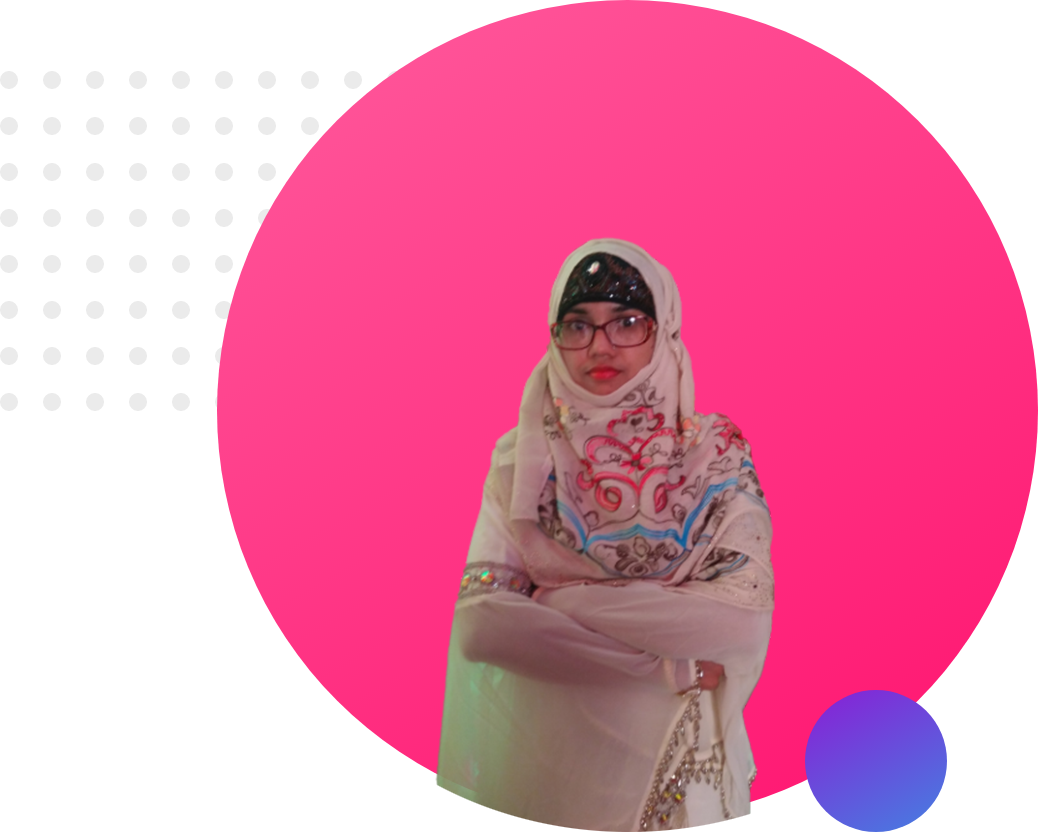
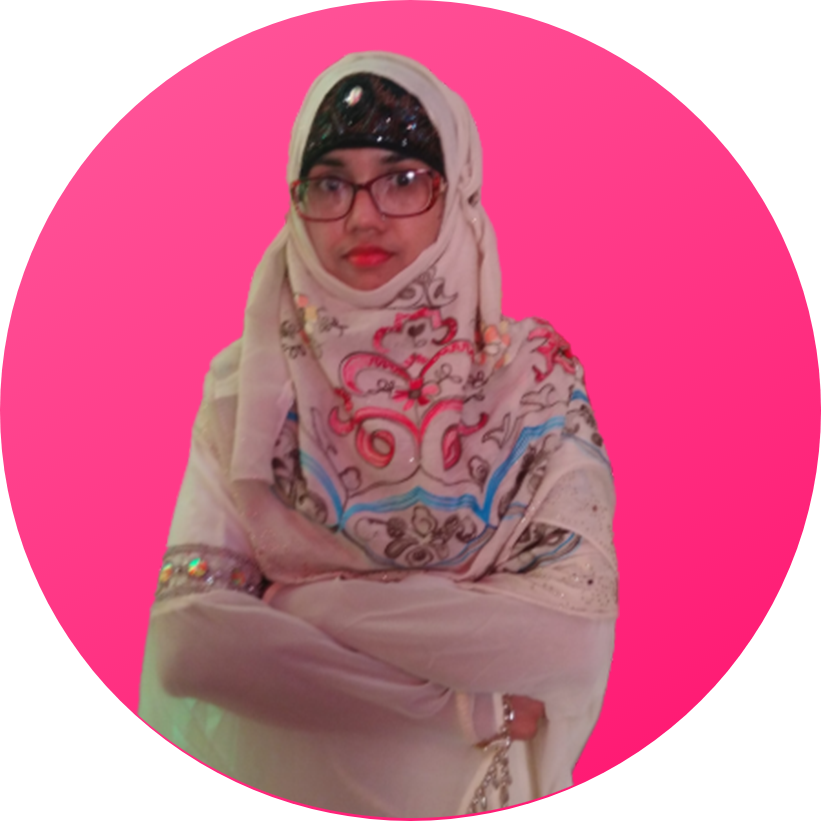
new correction

diff --git a/style.css b/style.css
@@ -33,6 +33,7 @@ section::after{
     font-size: 45px;
     color:#EC4C7A;
 }
+
 .half-width img{
     width:100%;
     height: auto;
@@ -52,15 +53,14 @@ section::after{
     background-image: linear-gradient(#EC4F90, #ED4B72);
     border-radius: 5px;
 }
-.half-width h3, .latest-work h3, h3{
+.half-width h3, .latest-work h3, h3 {
     font-size: 35px;
     text-transform: capitalize;
     font-weight: 400;
-}
-.latest-work h3{
     margin: 50px auto;
     text-align: center;
 }
+
 .half-width a.cv{
     text-transform: capitalize;
 }
@@ -70,7 +70,7 @@ section::after{
     padding:100px 0;
 }
 .biography{
-    margin-top: 100px;
+    margin-top: 0;
    
 }
 .single-work {
@@ -94,7 +94,6 @@ section::after{
 .developer h4{
 font-size: 40px;
 font-weight: 500;
-line-height: 10px;
 }
 
 .developer h5{
@@ -118,7 +117,7 @@ font-weight: 400;
     width: 45%;
     margin-right: 20px;
     float: right;
-    height: 350px;
+    height: 400px;
 }
 #baby{
     border-left:7px solid;

diff --git a/index.html b/index.html
@@ -17,7 +17,13 @@
             <a class="hire-link" href="#">hire me</a>
         </div>
         <div class="half-width">
-            <img src="images/mine.png" alt="peter">
+           
+                
+            <img src="images/9.png" alt="peter">
+            
+
+
+
         </div>
     </section>
     <section class="biography-area">
